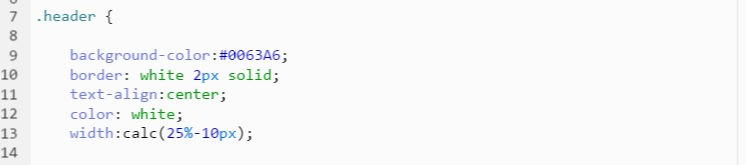
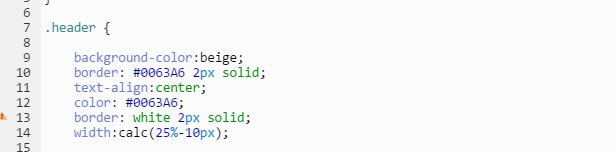
newindex

diff --git a/Styling.html b/Styling.html
@@ -28,7 +28,7 @@
 <center>  <img class="large" src="http://orig00.deviantart.net/6896/f/2012/260/c/2/creation_of_stars_by_edo555-d5f07s1.jpg"> </center>
   
   <h2>Designing Your Webpage with CSS</h2>
-  <p> Now that you got your tags placed around your content, you can use the tags 
+  <p> Now that you have your tags placed around your content, you can use the tags 
   to style your webpage.</p>
   
   <p> First we need to create a css file. Make sure to put the extension at the end as
@@ -45,16 +45,16 @@
   and feel you desire. However, for the purpose of this tutorial we are going to focus
   on the following</p>
   <ul>
-    <li><strong> Adding a background</li>
+    <li><strong> Add a Background</li>
     <li> Change Font and Alignment</li>
-    <li> Changing the Header and Footer</li>
-    <li> Changing the Appearance of the Navigation Bar</li>
-    <li> Change Image Size and Alignment</strong></li>
-    <li> Centering the Rest of the Page</li>
-
-  
+    <li> Change the Header and Footer</li>
+    <li> Change the Appearance of the Navigation Bar</li>
+    <li> Change Image Size and Alignment</li>
+    <li> Center the Rest of the Page</strong></li>
   </ul>
+  
 <hr>
+ 
  <h2>Add a background</h2>
  <p> In order to add a background to our site, you can either use a color or add 
  a background image. I like to add it to the <strong> body </strong> section as 
@@ -80,6 +80,7 @@ change the image size using the <strong>width</strong> as follows</p>
             
  <center><img class="middle" src="Images/width.jpg"> </center>
 
+<br>
 <hr>
 
 <h2>Changing Font and Alignment</h2>
@@ -93,6 +94,7 @@ at the same time.</p>
 
 <p> You can also align images to the right by changing the position in the <strong>text-align:</strong>. The default alignment for the browser is left.</p>
 
+<br>
 <hr>
 
 <h2> Changing the Header and Footer</h2>
@@ -101,12 +103,13 @@ rest of the page. To do so, we entered the following code in the css stylesheet.
 
 <center><img class="middle" src="Images/headerstyle.jpg"></center>
 
-<p>The background was set to a blue color. The <strong>border</strong> has the the attributes of a 2px white solid border. The text was centered and the font set to a white color. 
+<p>The background was set to a beige color. The <strong>border</strong> has the the attributes of a blue 2px solid border. The text was centered and the font set to a blue color. 
 The <strong> width </strong> has a calculated percentage of 25% of its parent's width on the right minus 10px from the left. As you can see, the header now lines up well with the rest of the page. </p>
 
-<p> For the footer, the style we created was the same as the header. </p>
+<p> For the footer,the style we created was the same as the header except the background is blue and the font color is white. </p>
  <center><img class="middle" src="Images/footer.jpg"> </center>
 
+<br>
 <hr>
 
 <h2> Changing the Appearance of the Navigation Bar</h2>
@@ -115,19 +118,18 @@ in the css stylesheet. </p>
 
  <center><img class="middle" src="Images/navblock.jpg"></center>
 
-<p> We first centered the text. Then the bullet points were removed by the <strong>list-style-type</strong></p> command by setting it to <strong>none</strong>. Then we displayed the list as 
-<strong>inline block</strong> elements so that it would line up horizontally. Finally, we want the links to display as a <strong> block </strong> when a person hovers over the link with their mouse.
+<p>I first centered the text. Then the bullet points were removed by the <strong>list-style-type</strong> command by setting it to <strong>none</strong>. Then we displayed the list as 
+<strong>inline block</strong> so that it would line up horizontally. Finally, we want the links to display as a <strong> block </strong> when a person hovers over the link with their mouse.</p>
 
-<p>To add style to the navigation bar, we added more coding as follows</p>
+<p>To add style to the navigation bar, we added more code as follows</p>
 
  <center><img class="middle" src="Images/navblock2.jpg"> </center>
 
-<p> The <strong>text-deocration</strong> command was used so that the text would appear as normal black text instead of the blue links as we gave it the property <strong>none</strong>.
-Then, we wanted all the navigation to expand the whole width of the browser by setting <strong>width:100%</strong>. The background of the navigation bar was set to pink and the font to white.
-We wanted to give each link a padding around it so that it looks nicer. The padding is the space around the text. Then a border was set around it as 1px light grayish blue solid line. Finally, we turned
-the link blocks blue when you hover over the blocks.
+<p>I wanted the navigation to expand the whole width of the browser.Therefore we set <strong>width:100%</strong>. The background of the navigation bar was set to blue and the font to white.
+I wanted to give each link a padding around it so that it looks nicer. The padding is the space around the text. Then a border was set around it as 1px light grayish blue solid line. Finally, we turned
+the link blocks blue and the text pink when you hover over the blocks.
 </p>
-
+<br>
 <hr>
 
 
@@ -154,11 +156,11 @@ to all images. Instead, you want to give each image a <strong>class</strong> in 
 
 <center><p> <img class="middle" src="Images/imgresize.jpg"/></p></center>
 
-<p> Finally, if you want to center it on the page as I did on this website, you can add the following code</p>
+<p> Finally, if you want to center it on the page as I did on this website, you can use the &lt;center &gt; tag as follows</p>
 
 <center> <p style="background-color:white"> &lt;center&gt; &lt;img class="middle" src="Images/widthpx.jpg&gt; &lt;/center&gt; </p> </center>
 
-
+<br>
 <hr>
 
 <h2>Centering the Rest of the Page</h2>
@@ -173,17 +175,17 @@ housing all the contents in the body. Remember to close the div right above the 
 <p>Finally, in the CSS sheet, enter the following code </p>
 
 <center><p></p><img class="middle" src="Images/pgpadding.jpg"></p></center>
-
-
+<br>
+<hr>
 <h2>Tips</h2>
-<p><strong>* Please note that you can not use the <strong>img</strong> twice in the stylesheet as it will create coding conflict. This goes for all class names as similar names can create 
+<p><strong>* Please note that you can not use the &lt;img&gt; twice in the stylesheet as it will create coding conflict. This goes for all class names as similar names can create 
 conflict in coding.* </strong></p>  
 
 <p><strong>* All styling done in the html files supercedes those done in css. *</strong></p>
 </div>
 
 <p><strong>*Extra or missing punctuation marks such as ({  ;  :) can cause the code not to work. 
-Forgetting the opening tags and closinng tags can also affect the proper display of your* </strong></p>
+Forgetting the opening tags and closing tags can also affect the proper display of your elements on the webpage.* </strong></p>
 
 
 <p> Now that you have tweeked your site to a desired look, let's put your website online for the pubic eye to see. <strong>Lights! Curtains! Action!</strong></p>

diff --git a/Content.html b/Content.html
@@ -41,7 +41,7 @@
     Almost all tags end with a closing tag. For example, <strong>&lt;h1&gt;</strong> ends with the<strong> &lt;/h1&gt</strong> tag.</p>
     
     
-    <p> Now let's create our navigation bar under the <strong> navigation div </strong> and link it to the files we had created earlier.Just a refresher, the webpages were
+    <p> Now let's create our navigation bar under the navigation div and link it to the files we had created earlier.Just a refresher, the webpages were
               <ul>
                   <strong>
                   <li>index.html</li>
@@ -57,12 +57,12 @@
    <p><center> <img class="middle" src="Images/nav.jpg"> </center></p>
 
    <p> We created an unordered list with the <strong> &lt;ul &gt;</strong> and  <strong> &lt;/ul &gt;</strong>. 
-   The  <strong> &lt;li &gt;</strong> and  <strong> &lt;/li &gt;</strong> tags are the bullet points in the list. </p>
+   The  <strong> &lt;li &gt;</strong> and  <strong> &lt;/li &gt;</strong> tags are the bullet points in the list.
+    As you can see, the name after the  <strong> &gt;</strong> sign is what you want the link to be called.</p>
    <p> Next we will make the pages link to each other by adding the  <strong> &lt;a href="webpage name.html" &gt;</strong> 
    and  <strong> &lt;/a &gt;</strong> tags. </p> 
-   <p>It is important that you note each punctuation and case sensitivity of the of 
-   the site names as it helps the code work properly. Many of the names you use in the tags are put in "" marks. 
-   As you also may note, the name after the  <strong> &gt;</strong> sign is what you want the link to be called. </p>
+   <p><strong>*It is important that you note each punctuation and case sensitivity of the of 
+   the site names as it helps the code work properly. Many of the names you use in the tags are put in "" marks.*</strong></p>
    
    <p> Now we are going to copy the entire layout of the page so far and paste it into each webpage file we had created
    so the website would look uniform</p>
@@ -70,17 +70,17 @@
     <p> For the main content, you can use the following tags to add content. I will only incude what I normally use for this 
     website below. They are </p>
      
-  <table style="width:100%">
+  <table class="chart">
   <tr>
-    <td><strong> &lt;p &gt;</strong>....<strong> &lt;/p &gt;</strong>/td>
+    <td><strong> &lt;p &gt;</strong>....<strong> &lt;/p &gt;</strong></td>
     <td>starts a sentence or paragraph</td> 
   </tr>
   <tr>
-    <td><strong> &lt;h2 &gt;</strong>....<strong> &lt;/h2 &gt;</strong>/td> 
+    <td><strong> &lt;h2 &gt;</strong>....<strong> &lt;/h2 &gt;</strong></td> 
     <td>defines a heading with h1 being the largest and h6 being he smallest size</td>
   </tr>
   <tr>
-      <td><strong> &lt;strong&gt;</strong>....<strong> &lt;/strong &gt;</strong>/</td>
+      <td><strong> &lt;strong&gt;</strong>....<strong> &lt;/strong &gt;</strong></td>
        <td>to bold text</td>
   </tr>
   <tr>
@@ -147,13 +147,13 @@
   <h2>Consistency is Key</h2>
   <p> It is important that you have consistent tags for your content. Make sure 
   you close all tags. If not, the content on your page may not display properly. 
-  It is better to have a &lt;p &gt; or &lt;h&gt; tag for each text item as it will
+  It is better to have a <strong>&lt;p &gt;</strong> or <strong>&lt;h&gt;</strong> tag for each text item as it will
   help when you have to style your fonts in the next section.</p>
   <p>In addition, your images should be properly sourced. If it is a local file, be sure
   to include it in your folder in the cloud 9 workspace. Otherwise, the image may 
   not display properly.
   </p>
-  <p>All links and file links are case sensitive. Make sure to check the text. Otherwise the file will not display properly</p>
+  <p>All links and file links are case sensitive. Make sure to check the text. Otherwise the file will not display properly.</p>
   
 <p> Now for the fun part, let's start <a href="Styling.html"> styling </a> our page. </p>
 

diff --git a/index.html b/index.html
@@ -42,29 +42,29 @@
       <p>Welcome to my first website! 
      I started this blog so I can document my coding journey. It has been a long interest of mine to learn to create a website from scratch. The creation process is empowering. However, the learning process requires a lot of effort and motivation.  Thanks to the support of the wonderful people at NYPL's Project Code, I have finally created a website!
       
-     I hope this guide will be able to help you just as it will provide a resource for me.  Feel free to browse around or ask questions in the comment section below. 
+     I hope this guide will be able to help you just as it will provide a resource for me.   
       
      </p>
-  <hr>
+  <hr>">
       
       <h2> Getting Started </h2>
       <p> You will need some tools to get started on your journey to create an website. They are </p>
       <ul>
        <li> A text editor. The two I use are</li>
            <ul>
-            <li>Brackets (http://brackets.io/)</li> 
-            <li>Cloud 9  (https://c9.io)</li>
+            <li>Brackets <a href="http://brackets.io/">(http://brackets.io/)</a></li> 
+            <li>Cloud 9 <a href="https://c9.io">  (https://c9.io)</a></li>
             </ul>
        <li>A place to "host" your website for public eyes. I use </li>
            <ul>
-           <li>Github (https://github.com/) </li>
+           <li>Github <a href="https://github.com/">(https://github.com/)</a> </li>
            </ul>
        <li> A place to get some cool <strong> free source, non-copyrighted</strong> content (such as images)</li>
            <ul>
-           <li>www.pixabay.com</li>
-           <li>www.freepik.com</li>
-           <li>search.creativecommons.org</li>
-           <li>www.google.com (click images labeled for reuse (under search tools)</li>
+           <li><a href="www.pixabay.com">www.pixabay.com</a></li>
+           <li><a href="www.freepik.com">www.freepik.com</a></li>
+           <li><a href="search.creativecommons.org">Creative Commons</a></li>
+           <li><a href="www.google.com">Google</a> (click images labeled for reuse (under search tools)</li>
            </ul>
    
 <p>Now that you have your tools, let's begin our coding journey in the <a href="Skeleton.html">Skeleton</a> section of the webpage. Buon Voyage!

diff --git a/Skeleton.html b/Skeleton.html
@@ -28,16 +28,16 @@
     
    <center><img class="large" src="https://upload.wikimedia.org/wikipedia/commons/6/64/Illustration_of_skeleton_standing_Wellcome_L0049507.jpg" /> </center>
        <h2> The Skeleton of the Webpage</h2>
-      <p> The skeleton of the structure of the webpage. It is the basic codes that every webpage needs as it tells the webpage 
+      <p> The skeleton is the structure of the webpage. It is the basic code that every web page needs as it tells the webpage 
         <ul>
         <li>what type of html document standard it is to comply with (!DOCTYPE html) </li>
         <li>what type of coding language to display (HTML) </li>
-        <li>which content to display (every code that is written in the body.../body section</li>
-        <li> where to pull its tools to be used in the html doc (ex. CSS stylesheet, special fonts, links)</li>
+        <li>which content to display (every code that is written in the &lt;body&gt;...&lt;/body&gt; section</li>
+        <li> where to pull the resources from to be used in the html document (ex. CSS stylesheet, special fonts, links)</li>
         </ul>
      
-   <p> I am going to use <a href="https://c9.io">https://c9.io</a> as my text editor for this demonstation. After selecting your code editor, open up a new file and save it under "index.html." 
-   The home page should always be labeled index.html as it will be more visible in the google search engines if you want your website to be found. </p>
+   <p> I am going to use <a href="https://c9.io">Cloud 9</a> as my text editor for this demonstation. After selecting your code editor, open up a new file and save it under "index.html." 
+   The home page should always be labeled "index.html" as google cater. </p>
      
    <p> The basic code for every webpage should have the following:</p>
    <p> <center><img class="middle" src="Images/skeleton.jpg"></center> </p>

diff --git a/stylesheet.css b/stylesheet.css
@@ -6,10 +6,11 @@ body {
 
 .header {
    
-    background-color:#0063A6;
-    border: white 2px solid;
+    background-color:beige;
+    border: #0063A6 2px solid;
     text-align:center;
-    color: white;
+    color: #0063A6;
+    border: white 2px solid;
     width:calc(25%-10px);
     
 }
@@ -21,12 +22,12 @@ body {
     color: white;
     width:calc(25%-10px);
 }
-
+/* #0063A6 is hexidecimal format for blue */
 /* #FFB6C1 is hexadecimal for pink color */
 #nav {
 text-align:center;	
 padding: 0;
-background-color:#FFB6C1;
+background-color:#0063A6;
 }
 
 
@@ -35,29 +36,32 @@ background-color:#FFB6C1;
     list-style-type:none;
 	margin: 0 auto;
 	padding: 0; 
+	text-align:center;
 }
 
 #nav li {
     display: inline-block;
+    text-align:center;
+       padding: 8px 15px;
 }
 
-/* #FFB6C1 is hexadecimal for pink color*/
+#nav a:hover {
+    color:#FFB6C1;
+}
+
 
 #nav li a:link, .nav li a:visited {
     text-decoration:none;
     width:100%;
     display: block;
-    background-color:#FFB6C1; 
     color:white;
-    padding: 8px 15px;
-	border-right: 1px solid #FFB6C1; 
-	clear: both;
+ 
 }
 
 /* #0090D2 is hexadecimal for blue color */
-#nav li a:hover, .nav li a:active {
+#nav li:hover {
     background-color:#0090D2;
-    
+    text-align:center;
 }
 
 p, li {
@@ -123,7 +127,10 @@ img.large {
 }
 
 
-
+.chart {
+    width:100%;
+    font-size:25px;
+}
 
 
 

diff --git a/github.html b/github.html
@@ -12,7 +12,7 @@
     <h2>A Guide to creating a website using HTML and CSS</h2>
     </div>
      <div id="nav">
-        <ul>
+        <ol>
         <li><a href="index.html"> Home </a></li>
         <li><a href="Skeleton.html">Skeleton</a></li>
         <li><a href="Layout.html">Layout</a></li>
@@ -20,13 +20,26 @@
         <li><a href="Styling.html">Styling with CSS</a></li>
         <li><a href="github.html">Putting Your Site Online</a></li>
         <li><a href="Resources.html">Resources</a></li>
-    </ul>
+    </ol>
     </div>
 
   <div class="main">
     
  <center><p><img class="large" src="https://pixabay.com/static/uploads/photo/2015/11/16/16/41/web-1045994_960_720.jpg"></p></center>    
-      
+ 
+ <h2> Hosting Your Site on Github</h2>
+ <p> <strong>Congratulations!</strong> You finally finished your website and would love to show the world!</p>
+ <p> In order to do so, we need to have a website host our site and give it a url. The steps are as follows</p>
+ <ul>
+     <li><strong> Register for <a href="https://github.com/"> Github </a> account </li>
+     <li>Then create a new repository on Github</li>
+  <center>   <img class="medium" src="Images/newrep.jpg"> </center>
+     <br>
+     <br>
+<center>     <img class="medium" src="Images/newrep2.jpg"> </center>
+        
+     </strong></li>
+ </ul>
       
       
 

diff --git a/Layout.html b/Layout.html
@@ -47,7 +47,7 @@
    <p> We give each div a <strong> div class = "name"</strong> in order to style each section 
    in CSS when the time comes. You can have multiple names in the same div class so it will be easier
    to group them in CSS for stying many elements at once. </p>
-   <p>I have a <strong> div id="name"</strong> because I want to single this element specifically and apply a 
+   <p>I have a <strong> div id="name"</strong> because I want to single out this element specifically and apply a 
    style only to this element. I may also want to use JavaScript in the future to manipulate that item. Therefore IDs should only be used
    once as not to create a coding conflict in the future with Javascript.</p> 
    <p> Next think of how you will arrange your content. Make sure there is uniformity in the content of your page. This will help when it comes around to styling your page using CSS (Casading Style Sheet). For this website, I divided up the webpage as follows

diff --git a/Resources.html b/Resources.html
@@ -58,7 +58,7 @@
 
 <h3>Image Editor</h3>
 <li><strong><a href="https://pixlr.com/">Pixlr<a></li>
-<li> Use Paint on your Desktop to Crop or Resize Images </strong></li>
+<li> Use "Paint" application on your Desktop to Crop or Resize Images </strong></li>
 
 <h3>Color Scheme </h3>
 <li><strong><a href="https://coolors.co/app/16302b-694873-8b728e-85b79d-c0e5c8">Coolors</a></strong></li>
@@ -70,7 +70,7 @@
 <h3>Free Hosting </h3>
 <li><strong><a href="https://github.com/">Github</a></strong></li>
 
-<h3> Give Up on Coding and Want to Create Your Own Website</h3>
+<h3> Give Up on Coding but Still Want to Design a Website</h3>
 <li><strong><a href="http://www.wix.com/">Wix</a></li>
 <li><a href="https://wordpress.com/">WordPress</a></strong></li>
 <br>
